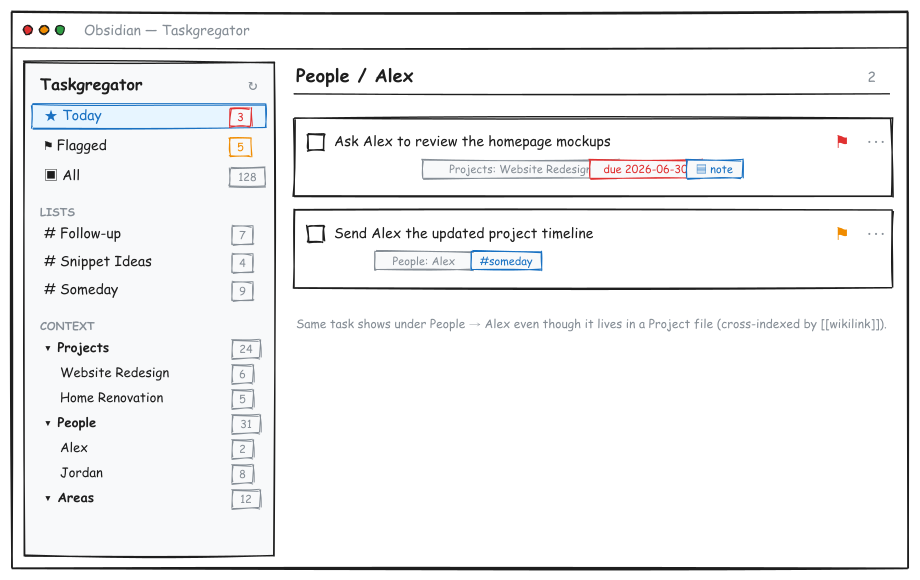
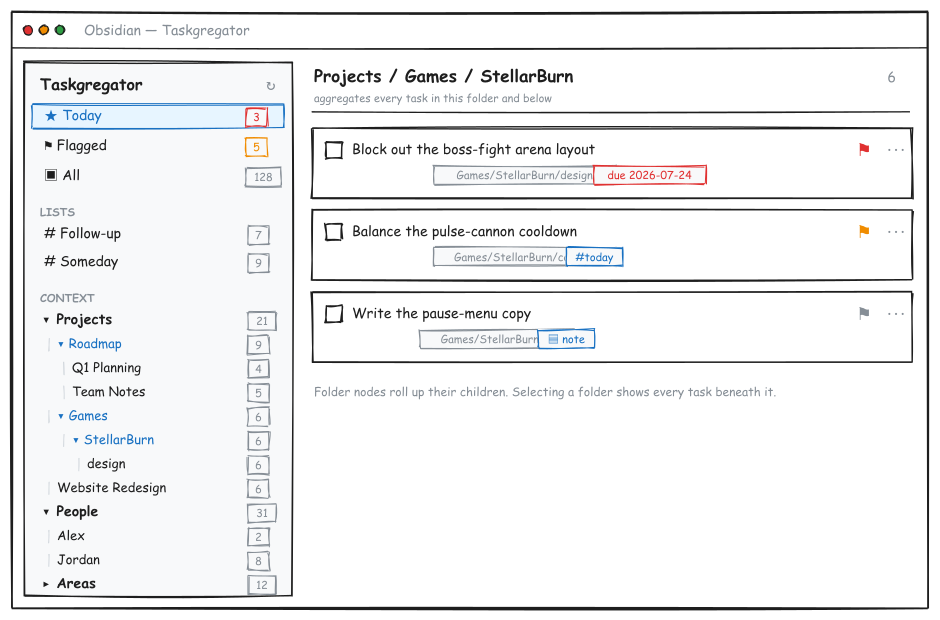
Add nested-folder aggregation and collapsible sidebar tree
Nest arbitrary subfolders under context roots with deduped bottom-up
rollup counts, cross-index tasks into referenced People/Project nodes,
and make every tree node collapsible via a caret twisty. Updated the
main wireframe to show the nested, collapsible tree.

Copilot-Session: 2e61287a-aabe-472b-9d13-73dc5aa1060c

Changed region(s): [[0.0, 0.0, 1.0, 0.9931]]

diff --git a/src/store.ts b/src/store.ts
@@ -1,7 +1,7 @@
 import { App } from "obsidian";
 import { TaskItem, TreeNode } from "./types";
 import { TaskgregatorSettings } from "./settings";
-import { scanVault } from "./parser";
+import { scanVault, nodeKeyForFile } from "./parser";
 
 export class TaskStore {
   app: App;
@@ -40,8 +40,9 @@ export class TaskStore {
    * Inbox roots collapse to a single node per root (flat).
    */
   /**
-   * Build the context tree: bucketRoot -> file -> tasks, with rolled-up open counts.
-   * Inbox roots collapse to a single node per root (flat).
+   * Build the context tree: bucketRoot -> nested folders -> file -> tasks, with
+   * rolled-up (deduped) open counts at every level. Inbox roots and the catch-all
+   * "Other" root collapse to a single flat node.
    * Cross-index: a task that links to a file under a bucket root also appears under
    * that file's node, even when authored elsewhere.
    */
@@ -51,48 +52,57 @@ export class TaskStore {
       this.settings.inboxRoots,
       ["Other"]
     );
-    const rootMap = new Map<string, TreeNode>();
-    // Track membership as Sets to dedupe authored + linked tasks per node.
-    const nodeIds = new Map<string, Set<string>>();
+    const nodeMap = new Map<string, TreeNode>();
+    const directIds = new Map<string, Set<string>>();
 
-    const getRoot = (name: string): TreeNode => {
-      let r = rootMap.get(name);
-      if (!r) {
-        r = { key: name, label: name, kind: "root", children: [], taskIds: [], count: 0 };
-        rootMap.set(name, r);
-        nodeIds.set(r.key, new Set());
+    const ensureNode = (
+      key: string,
+      label: string,
+      kind: TreeNode["kind"]
+    ): TreeNode => {
+      let n = nodeMap.get(key);
+      if (!n) {
+        n = { key, label, kind, children: [], taskIds: [], count: 0 };
+        nodeMap.set(key, n);
+        directIds.set(key, new Set());
       }
-      return r;
+      return n;
     };
 
-    const getFileNode = (root: TreeNode, rootName: string, fileBase: string): TreeNode => {
-      const fileKey = `${rootName}/${fileBase}`;
-      let fileNode = root.children.find((c) => c.key === fileKey);
+    // Resolve a file path to the node a task should attach to, creating the
+    // root -> folder... -> file chain as needed.
+    const fileNodeFor = (filePath: string): TreeNode => {
+      const { rootName, flat } = nodeKeyForFile(filePath, this.settings);
+      const root = ensureNode(rootName, rootName, "root");
+      if (flat) return root;
+      const parts = filePath.split("/");
+      let parent = root;
+      let parentKey = rootName;
+      // Intermediate folders (between root and file).
+      for (let i = 1; i < parts.length - 1; i++) {
+        const folderKey = `${parentKey}/${parts[i]}`;
+        let node = nodeMap.get(folderKey);
+        if (!node) {
+          node = ensureNode(folderKey, parts[i], "folder");
+          parent.children.push(node);
+        }
+        parent = node;
+        parentKey = folderKey;
+      }
+      const base = parts[parts.length - 1].replace(/\.md$/i, "");
+      const fileKey = `${parentKey}/${base}`;
+      let fileNode = nodeMap.get(fileKey);
       if (!fileNode) {
-        fileNode = {
-          key: fileKey,
-          label: fileBase,
-          kind: "file",
-          children: [],
-          taskIds: [],
-          count: 0,
-        };
-        root.children.push(fileNode);
-        nodeIds.set(fileNode.key, new Set());
+        fileNode = ensureNode(fileKey, base, "file");
+        parent.children.push(fileNode);
       }
       return fileNode;
     };
 
     // Pass 1: authored location.
     for (const t of visible) {
-      const root = getRoot(t.bucketRoot);
-      const isInbox = this.settings.inboxRoots.includes(t.bucketRoot);
-      if (isInbox) {
-        nodeIds.get(root.key)!.add(t.id);
-      } else {
-        const fileNode = getFileNode(root, t.bucketRoot, t.bucketFile);
-        nodeIds.get(fileNode.key)!.add(t.id);
-      }
+      const node = fileNodeFor(t.filePath);
+      directIds.get(node.key)!.add(t.id);
     }
 
     // Pass 2: cross-index by wikilink into the linked file's node.
@@ -101,31 +111,31 @@ export class TaskStore {
         const dest = this.app.metadataCache.getFirstLinkpathDest(link, t.filePath);
         if (!dest) continue;
         const parts = dest.path.split("/");
-        if (parts.length < 2) continue;
-        const rootName = parts[0];
-        if (!this.settings.bucketRoots.includes(rootName)) continue;
-        const fileBase = parts[parts.length - 1].replace(/\.md$/i, "");
-        const root = getRoot(rootName);
-        const fileNode = getFileNode(root, rootName, fileBase);
-        nodeIds.get(fileNode.key)!.add(t.id);
+        if (parts.length < 2 || !this.settings.bucketRoots.includes(parts[0])) continue;
+        const node = fileNodeFor(dest.path);
+        directIds.get(node.key)!.add(t.id);
       }
     }
 
-    // Materialize taskIds, rollup counts, sort.
+    // Roll up counts (deduped) and sort, bottom-up.
+    const rollup = (node: TreeNode): Set<string> => {
+      const set = new Set<string>(directIds.get(node.key) || []);
+      node.taskIds = Array.from(directIds.get(node.key) || []);
+      for (const c of node.children) {
+        for (const id of rollup(c)) set.add(id);
+      }
+      node.children.sort(
+        (a, b) => b.count - a.count || a.label.localeCompare(b.label)
+      );
+      node.count = set.size;
+      return set;
+    };
+
     const roots: TreeNode[] = [];
     for (const name of rootsOrder) {
-      const r = rootMap.get(name);
+      const r = nodeMap.get(name);
       if (!r) continue;
-      r.taskIds = Array.from(nodeIds.get(r.key) || []);
-      for (const c of r.children) {
-        c.taskIds = Array.from(nodeIds.get(c.key) || []);
-        c.count = c.taskIds.length;
-      }
-      r.children.sort((a, b) => b.count - a.count || a.label.localeCompare(b.label));
-      // Root rollup as the union of its own tasks + all children (dedupe).
-      const union = new Set<string>(r.taskIds);
-      for (const c of r.children) for (const id of c.taskIds) union.add(id);
-      r.count = union.size;
+      rollup(r);
       roots.push(r);
     }
     return roots;

diff --git a/src/view.ts b/src/view.ts
@@ -2,7 +2,7 @@ import { ItemView, Menu, Modal, WorkspaceLeaf, setIcon, App } from "obsidian";
 import { TaskItem, TreeNode } from "./types";
 import { TaskStore } from "./store";
 import { TaskWriter } from "./writer";
-import { deriveBucket } from "./parser";
+import { nodeKeyForFile } from "./parser";
 import { TaskgregatorSettings } from "./settings";
 
 export const VIEW_TYPE_TASKGREGATOR = "taskgregator-view";
@@ -27,6 +27,8 @@ export class TaskgregatorView extends ItemView {
   selection: Selection = { type: "today" };
   sidebarEl!: HTMLElement;
   mainEl!: HTMLElement;
+  // Node keys the user has collapsed (persists across re-renders/reindex).
+  collapsed: Set<string> = new Set();
 
   constructor(leaf: WorkspaceLeaf, deps: ViewDeps) {
     super(leaf);
@@ -60,16 +62,13 @@ export class TaskgregatorView extends ItemView {
 
   /** Focus the node that contains a given source file (used by external reveal). */
   revealTask(filePath: string): void {
-    const { bucketRoot, bucketFile } = deriveBucket(filePath, this.deps.settings);
-    if (this.deps.settings.inboxRoots.includes(bucketRoot)) {
-      this.selection = { type: "node", key: bucketRoot, label: bucketRoot };
-    } else {
-      this.selection = {
-        type: "node",
-        key: `${bucketRoot}/${bucketFile}`,
-        label: bucketFile,
-      };
-    }
+    const { fileKey, flat, rootName } = nodeKeyForFile(filePath, this.deps.settings);
+    const base = filePath.split("/").pop()?.replace(/\.md$/i, "") || filePath;
+    this.selection = {
+      type: "node",
+      key: fileKey,
+      label: flat ? rootName : base,
+    };
     this.render();
   }
 
@@ -124,9 +123,27 @@ export class TaskgregatorView extends ItemView {
   private renderTreeNode(parent: HTMLElement, node: TreeNode, depth: number): void {
     const active =
       this.selection.type === "node" && this.selection.key === node.key;
+    const hasChildren = node.children.some((c) => c.count > 0);
+    const isCollapsed = this.collapsed.has(node.key);
+
     const row = parent.createDiv({ cls: "tg-tree-row" + (active ? " is-active" : "") });
     row.style.paddingLeft = 8 + depth * 14 + "px";
-    const icon = node.kind === "root" ? "folder" : "file-text";
+
+    // Twisty (caret) toggles collapse without changing selection.
+    const twisty = row.createSpan({ cls: "tg-twisty" });
+    if (hasChildren) {
+      setIcon(twisty, isCollapsed ? "chevron-right" : "chevron-down");
+      twisty.onclick = (e) => {
+        e.stopPropagation();
+        if (isCollapsed) this.collapsed.delete(node.key);
+        else this.collapsed.add(node.key);
+        this.render();
+      };
+    } else {
+      twisty.addClass("tg-twisty-empty");
+    }
+
+    const icon = node.kind === "root" || node.kind === "folder" ? "folder" : "file-text";
     const ic = row.createSpan({ cls: "tg-tree-icon" });
     setIcon(ic, icon);
     row.createSpan({ cls: "tg-tree-label", text: node.label });
@@ -135,6 +152,8 @@ export class TaskgregatorView extends ItemView {
       this.selection = { type: "node", key: node.key, label: node.label };
       this.render();
     };
+
+    if (isCollapsed) return;
     for (const child of node.children) {
       if (child.count === 0) continue;
       this.renderTreeNode(parent, child, depth + 1);

diff --git a/src/parser.ts b/src/parser.ts
@@ -173,6 +173,26 @@ export function deriveBucket(
   };
 }
 
+/**
+ * Resolve a file path to its context-tree placement.
+ * `flat` roots (inbox folders, and the catch-all "Other") group tasks directly
+ * on the root node; everything else nests one node per folder segment down to
+ * the file. `fileKey` is the key of the node the task attaches to.
+ */
+export function nodeKeyForFile(
+  filePath: string,
+  settings: TaskgregatorSettings
+): { rootName: string; flat: boolean; fileKey: string } {
+  const parts = filePath.split("/");
+  const root = parts.length > 1 ? parts[0] : "Other";
+  const inBucket = settings.bucketRoots.includes(root);
+  const inInbox = settings.inboxRoots.includes(root);
+  const rootName = inBucket || inInbox ? root : "Other";
+  const flat = inInbox || rootName === "Other";
+  const fileKey = flat ? rootName : filePath.replace(/\.md$/i, "");
+  return { rootName, flat, fileKey };
+}
+
 function isIgnored(path: string, settings: TaskgregatorSettings): boolean {
   return settings.ignorePaths.some((p) => path.startsWith(p));
 }

diff --git a/styles.css b/styles.css
@@ -74,6 +74,19 @@
 }
 .taskgregator .tg-tree-icon svg { width: 15px; height: 15px; }
 
+.taskgregator .tg-twisty {
+  display: inline-flex;
+  align-items: center;
+  justify-content: center;
+  width: 16px;
+  flex-shrink: 0;
+  opacity: 0.6;
+  cursor: pointer;
+}
+.taskgregator .tg-twisty:hover { opacity: 1; }
+.taskgregator .tg-twisty svg { width: 14px; height: 14px; }
+.taskgregator .tg-twisty-empty { cursor: default; }
+
 .taskgregator .tg-tree-label {
   flex: 1;
   white-space: nowrap;

diff --git a/src/types.ts b/src/types.ts
@@ -34,9 +34,9 @@ export interface TaskItem {
 }
 
 export interface TreeNode {
-  key: string; // unique path key e.g. "Projects/Deployment Tracker"
+  key: string; // unique path key e.g. "Projects/Roadmap/Q1 Planning"
   label: string;
-  kind: "root" | "file" | "tag" | "smart";
+  kind: "root" | "folder" | "file" | "tag" | "smart";
   children: TreeNode[];
   taskIds: string[]; // tasks directly at this node
   count: number; // rolled-up open count including descendants